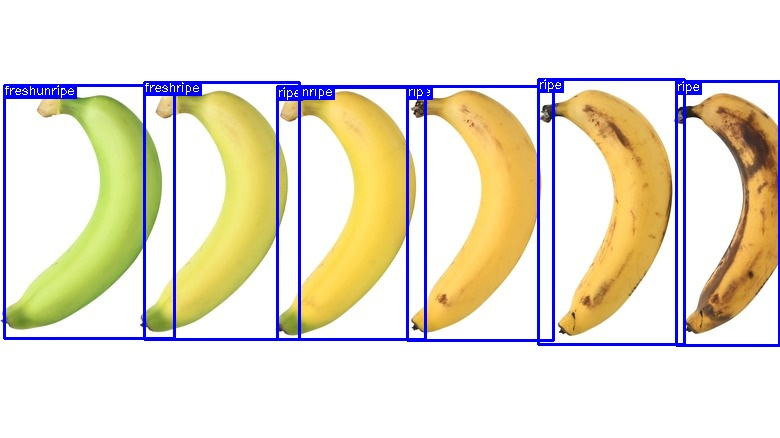
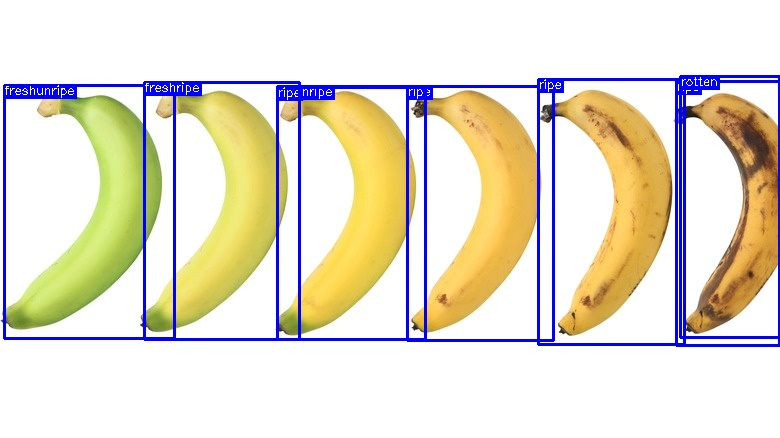
file UAS CV

Changed region(s): [[0.8615, 0.1484, 1.0, 0.7717]]

diff --git a/realtime.py b/realtime.py
@@ -14,7 +14,7 @@ annotator = sv.BoxAnnotator()
 def on_prediction(predictions, image):
     labels = [p["class"] for p in predictions["predictions"]]
     detections = sv.Detections.from_roboflow(predictions)
-    detections = detections[detections.confidence > 0.9]
+    detections = detections[detections.confidence > 0.4]
     print(detections)
     cv2.imshow(
         "Prediction",
